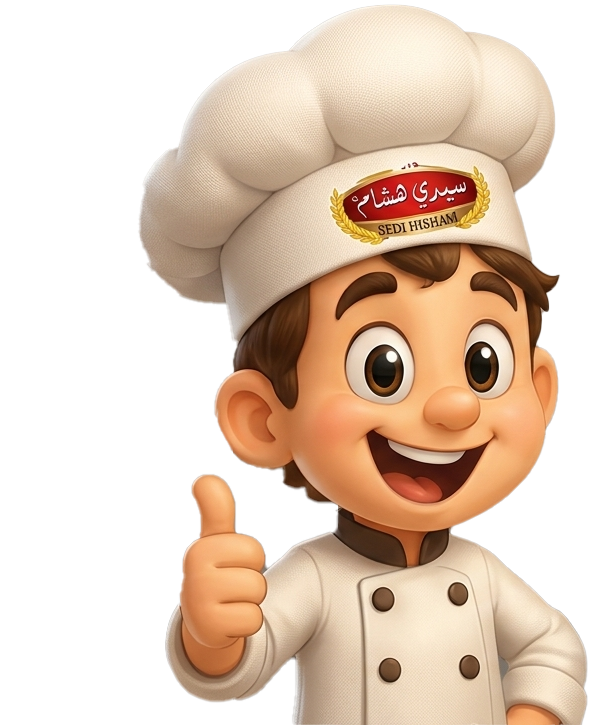
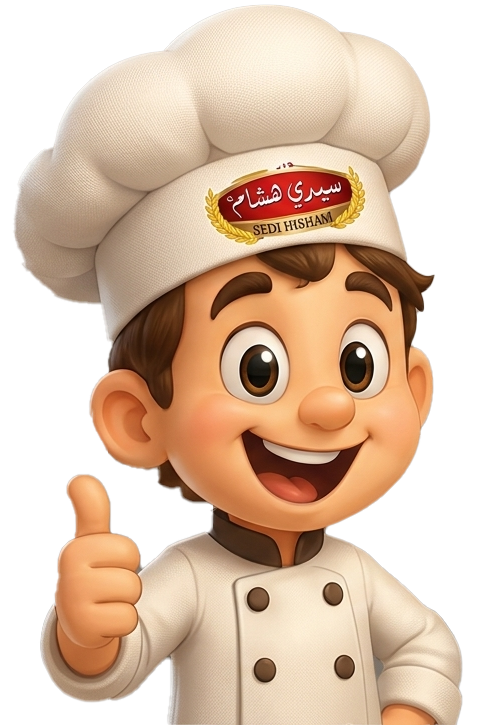
Update fork positioning and adjust speech bubble placement for improved layout

diff --git a/style.css b/style.css
@@ -99,21 +99,21 @@ body {
 
 #fork {
   touch-action: none;
+  position: absolute;
+
+  left: 50%;
+  top: 20%;
+  transform: translateX(-50%);
+
   width: calc(min(65vw, 440px) * var(--fork-scale));
   height: calc(min(65vw, 440px) * var(--fork-scale));
-  position: relative;
-  /* position: fixed;
-  bottom: 1rem;*/
-  left: 47%;
-  top:20%;
-  transform: translateX(-50%); 
+
   display: flex;
   align-items: center;
   justify-content: center;
+
   cursor: grab;
-  flex-shrink: 0;
   z-index: 999;
-  margin-top: 2.5rem;
 }
 
 #fork:active {
@@ -246,10 +246,13 @@ body {
 .coil-guide {
   position: fixed;
   top: 50%;
-  left: 50%;
+  left: 45.5%;
   transform: translate(-50%, -50%);
-  width: min(80vw, 520px);
+
+  width: min(95vw, 900px);
+  max-width: 100%;
   height: auto;
+
   pointer-events: none;
   z-index: 5;
   opacity: 0.35;
@@ -369,8 +372,8 @@ body {
 /* --- Speech Bubble --- */
 .speech-bubble {
   position: fixed;
-  bottom: calc(clamp(80px, 18vh, 180px) * var(--chef-scale) + 0.05px);
-  left: max(12px, calc(clamp(80px, 18vh, 180px) * var(--chef-scale) * 0.9));
+  bottom: calc(clamp(80px, 18vh, 180px) * var(--chef-scale) - 120px);
+  left: max(12px, calc(clamp(80px, 18vh, 180px) * var(--chef-scale) * 0.6));
   z-index: var(--z-bubble);
   opacity: 0;
   transform: translateY(6px);